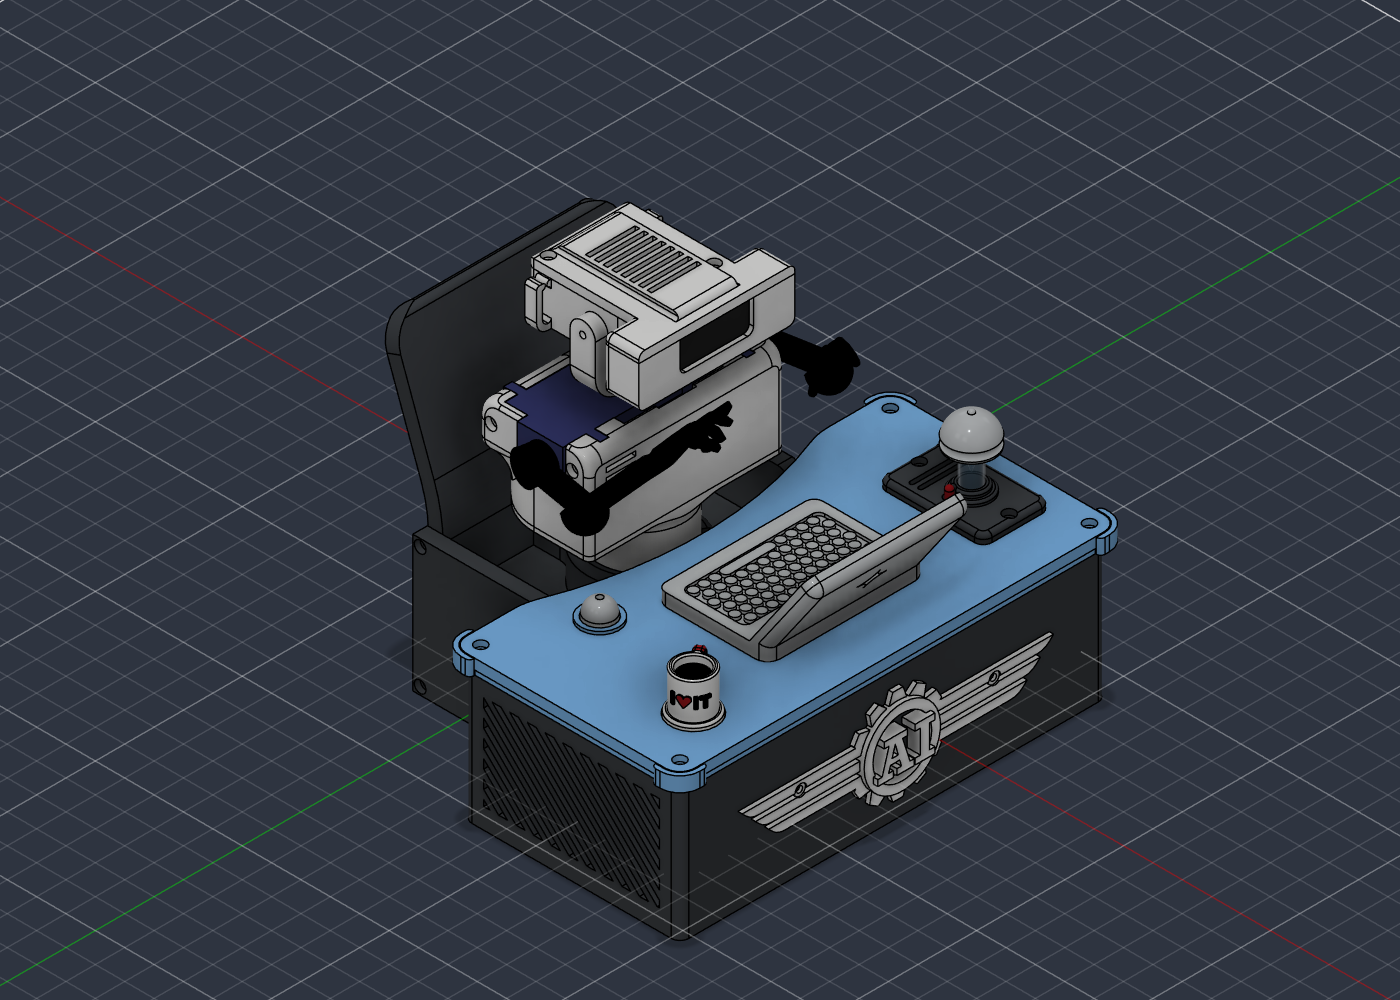
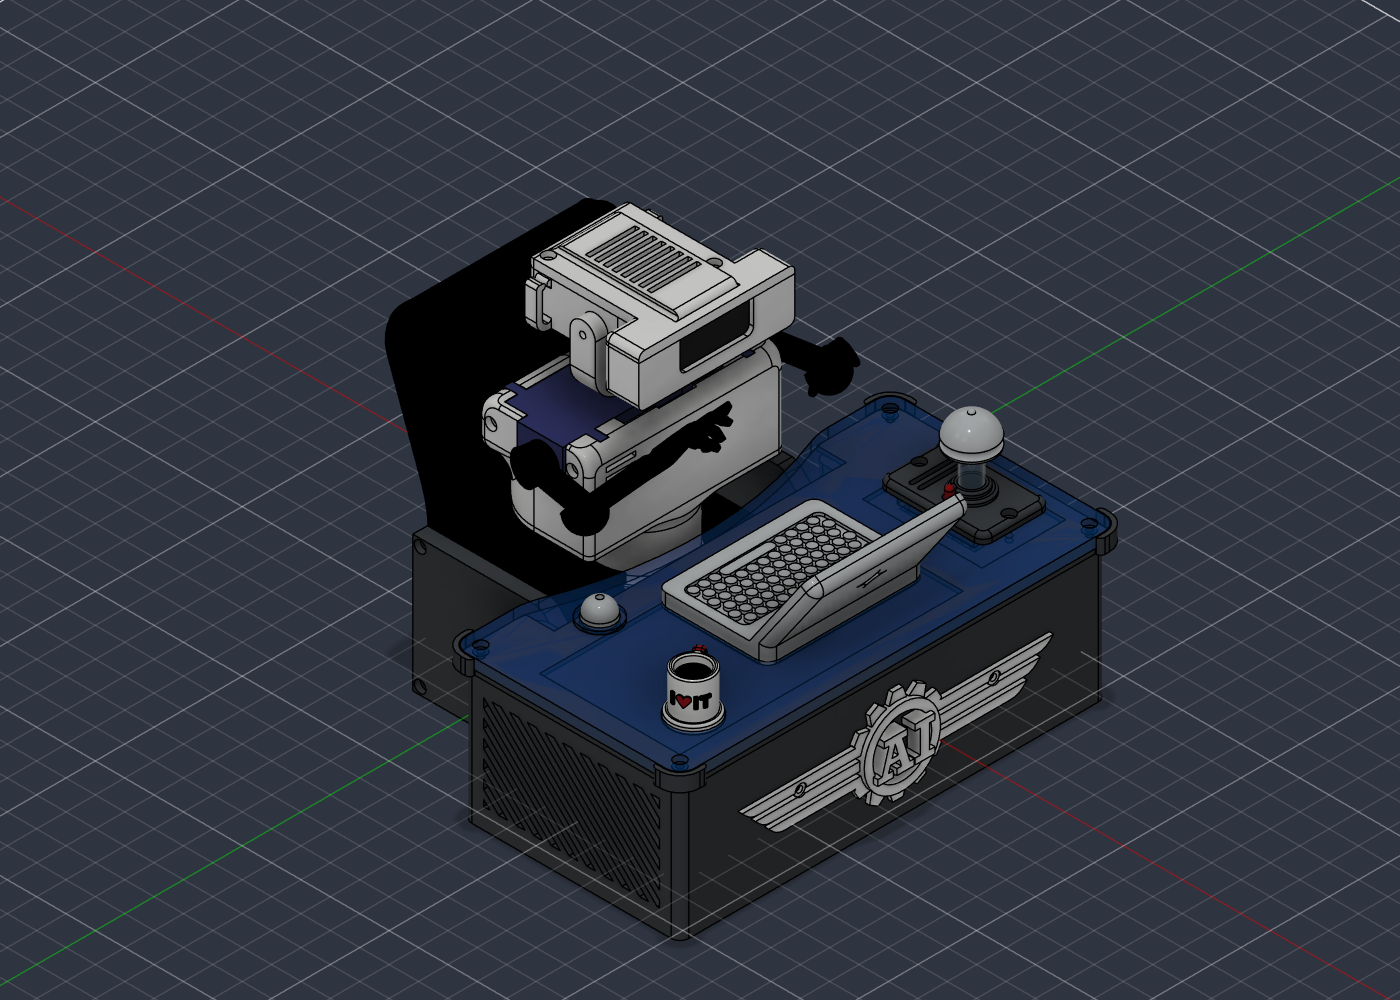
docs: black chair, anthracite desk pad corners, see-through glass top

Changed region(s): [[0.2764, 0.186, 0.7986, 0.806]]

diff --git a/mein-build/farben/README.md b/mein-build/farben/README.md
@@ -15,10 +15,10 @@ Vorschauen sind aus einem Foto des Originals umgefärbt, keine echten Drucke. Di
 | Teile | Farbe | Filament | pro Roboter |
 | --- | --- | --- | --- |
 | Head, Chest, Hat, Belly, Neck, Mug, AiEmblem | Weiß | PLA Weiß | 60 g |
-| UpperArm (2×), ForearmLeft/Right, Coffee, Schrift auf der Tasse | Schwarz | PLA Schwarz | 6 g |
-| Desk, Chair, SeatLeft, SeatRight, LampBase | Anthrazit | PLA Anthrazit V2 | 151 g |
+| UpperArm (2×), ForearmLeft/Right, Coffee, Chair, SeatLeft, SeatRight, Schrift auf der Tasse | Schwarz | PLA Schwarz | 76 g |
+| Desk, DeskPad (Unterplatte mit Ecken), LampBase | Anthrazit | PLA Anthrazit V2 | 90 g |
 | LaptopCase, LaptopScreen, Bell, LampCap | Alu-Silber | PETG Alu-Silber | 16 g |
-| DeskTop, DeskPad (Platte und Kanten) | Glas | PETG Transparent Blau | 40 g |
+| DeskTop (Tischplatte) | Glas | PETG Transparent Blau | 30 g |
 | Henkel und Herz der Tasse, LampButton | Feuerrot | PLA Feuerrot | < 1 g |
 
 Filamente (1,75 mm, Preise vom 30.09.2026):
@@ -26,18 +26,19 @@ Filamente (1,75 mm, Preise vom 30.09.2026):
 | Filament | Link | Menge für 3 Roboter | Kauf |
 | --- | --- | --- | --- |
 | PLA Weiß | [1 kg](https://dasfilament.de/produkt/pla-filament-175-mm-weiss-1-kg/) | 180 g | 1 kg, 15,99 € |
-| PLA Anthrazit V2 | [1 kg](https://dasfilament.de/produkt/pla-filament-175-mm-anthrazit-v2-1-kg/) | 450 g | 1 kg, 16,99 € |
-| PLA Schwarz | [Probe](https://dasfilament.de/produkt/pla-filament-175-mm-schwarz-50-g-sample/) | 28 g | 50-g-Probe, 2,95 € |
+| PLA Anthrazit V2 | [1 kg](https://dasfilament.de/produkt/pla-filament-175-mm-anthrazit-v2-1-kg/) | 271 g | 1 kg, 16,99 € |
+| PLA Schwarz | [1 kg](https://dasfilament.de/produkt/pla-filament-175-mm-schwarz-1-kg/) | 229 g | 1 kg, 15,99 € |
 | PLA Feuerrot | [Probe](https://dasfilament.de/produkt/pla-filament-175-mm-feuerrot-50-g-sample/) | 3 g | 50-g-Probe, 2,95 € |
-| PETG Alu-Silber | [Probe](https://dasfilament.de/produkt/petg-filament-50-g-sample-175-mm-alu-silber/) | 46 g | 2 Proben, 5,90 € |
-| PETG Transparent Blau | [1 kg](https://dasfilament.de/produkt/petg-filament-175-mm-transparent-blau-1-kg/) | 120 g | 1 kg, 21,00 € (3 Proben wären zu knapp) |
-| PETG Natur (Sichtschutz) | [Probe](https://dasfilament.de/produkt/petg-filament-50-g-sample-175-mm-natur/) | ~15 g | 50-g-Probe, 2,95 € |
+| PETG Alu-Silber | [Probe](https://dasfilament.de/produkt/petg-filament-50-g-sample-175-mm-alu-silber/) | 49 g | 2 Proben, 5,90 € |
+| PETG Transparent Blau | [1 kg](https://dasfilament.de/produkt/petg-filament-175-mm-transparent-blau-1-kg/) | 91 g | 1 kg, 21,00 € (2 Proben wären zu knapp) |
+| PETG Natur (optional, hellerer Glaston) | [Probe](https://dasfilament.de/produkt/petg-filament-50-g-sample-175-mm-natur/) | ~15 g | 50-g-Probe, 2,95 € |
 | Farbmuster-Set (68 Plättchen: 34 PLA, 30 PETG, 3 TPU) | [Set](https://dasfilament.de/produkt/farbplaettchen-farbmuster-set-swatches/) | – | 19,94 € |
 
 Das Farbmuster-Set zeigt jede Farbe in Stufen von 0,2 bis 2 mm Dicke. Damit lässt sich vor dem Kauf prüfen, wie durchsichtig Transparent Blau und Natur bei der Plattenstärke wirken.
 
 ## Offene Punkte
 
-- **Glasplatte:** Platte und Kanten sind durchsichtig, nur die untersten 2–3 Schichten sind Sichtschutz (Farbwechsel per Pause). Der Sichtschutz bestimmt, wie hell die Platte wirkt: PETG Natur ergibt ein helles Eisblau wie in der Vorschau, PETG Blau ein kräftiges Dunkelblau. PLA haftet schlecht auf PETG, deshalb auch der Sichtschutz aus PETG.
+- **Glasplatte:** Unter der Tischplatte liegen die anthrazitfarbene Unterplatte und der oben geschlossene Tischkorpus; Elektronik sieht man nicht. Die Platte wirkt deshalb dunkelblau. Für ein helles Eisblau die untersten 2–3 Schichten in PETG Natur drucken (Farbwechsel per Pause). PLA haftet schlecht auf PETG.
+- **Klingel:** Den Knopf oben bildet der Kopf der M2×16-Schraube, mit der die Klingel am Tisch befestigt wird.
 - **Lampenschirm:** In Transparent Blau leuchtet die Lampe blau. Für weißes Licht PETG Natur nehmen.
 - **Tasse „I ♥ IT“:** fertig im Modell, Dateien in [../tasse/](../tasse/). Schrift und Herz sind 0,4 mm erhaben, gegenüber dem Henkel. Beim Einsetzen zeigt der Henkel nach hinten. `Tasse_ILoveIT_Teile.3mf` öffnet Bambu Studio als ein Objekt mit sechs Teilen (Tasse, Henkel, Herz, drei Buchstaben); jedem Teil die Farbe zuweisen. Mehrfarbig in einem Druck geht nur mit Farbwechsler (AMS); ohne AMS die weiße Tasse drucken und Schrift, Herz und Henkel bemalen.
